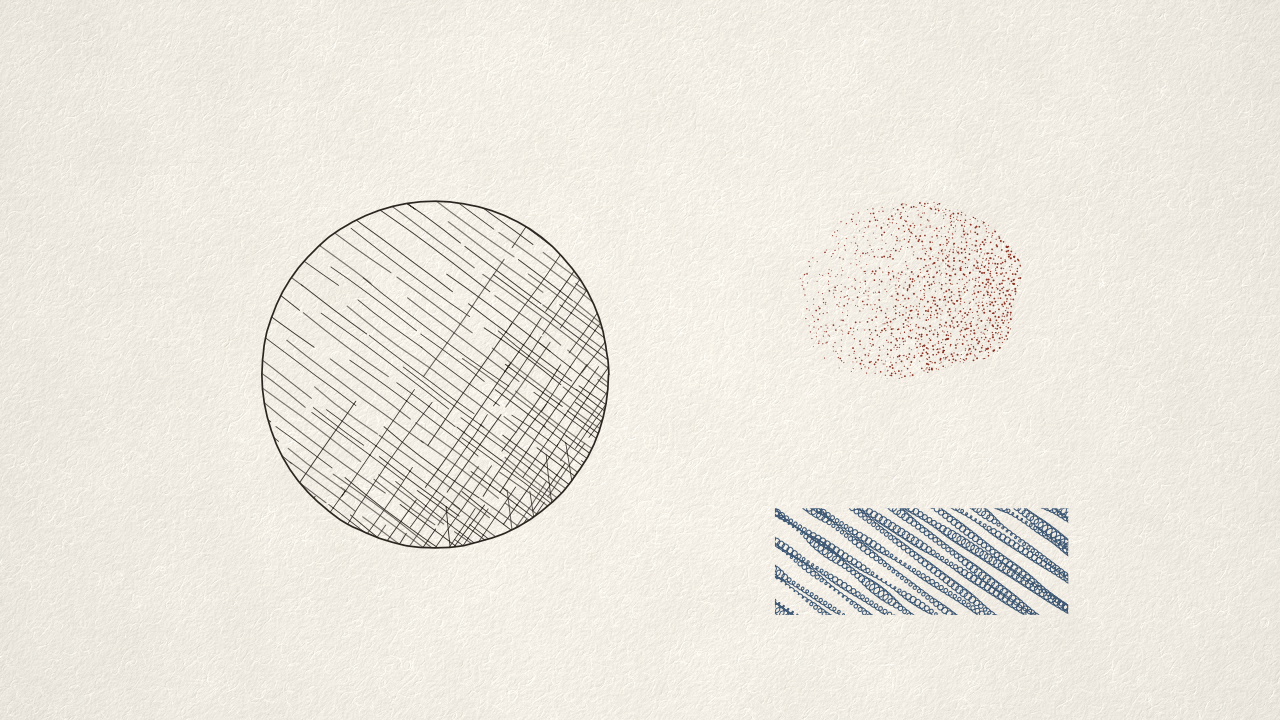
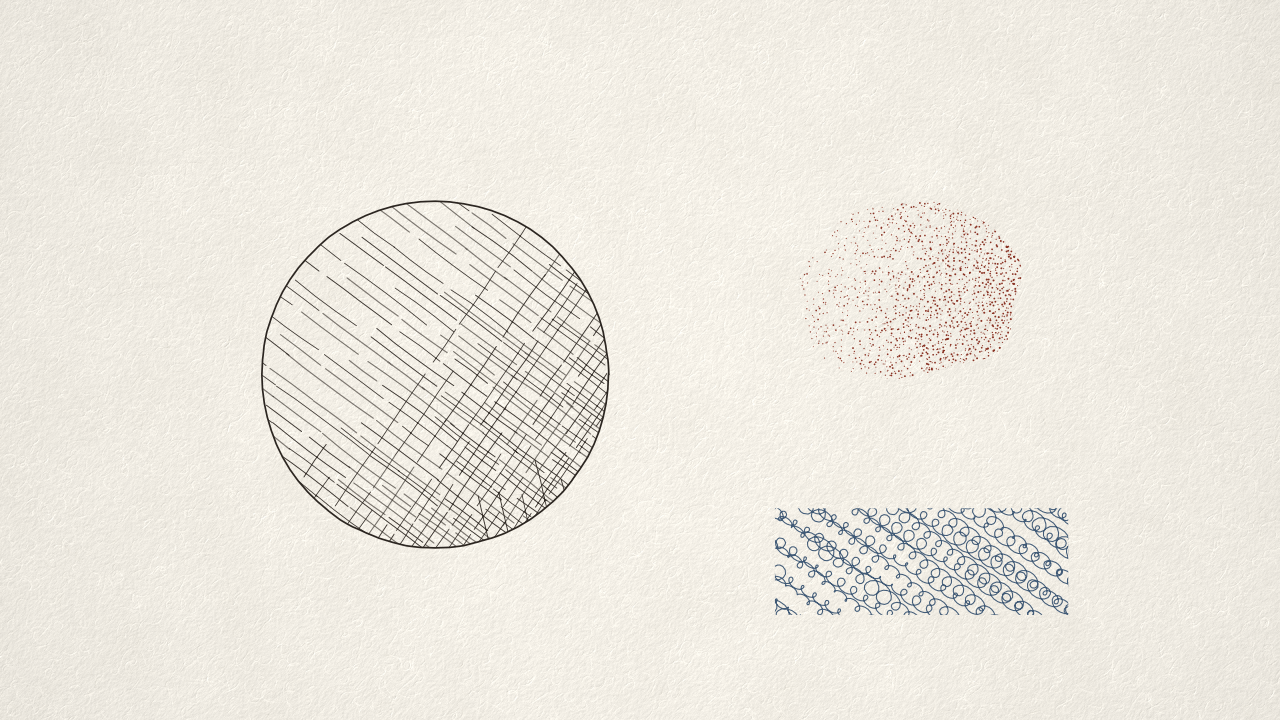
video: organic cold-press grain, looser scribble loops, shorter hatch strokes
Claude-Session: https://claude.ai/code/session_01YBqayZhtLQZUoDivv8TjYD

Changed region(s): [[0.2188, 0.275, 0.4688, 0.7639], [0.5938, 0.7028, 0.8438, 0.8556], [0.2188, 0.3972, 0.25, 0.4278]]

diff --git a/crates/anikit-video/src/components/illus_fill.rs b/crates/anikit-video/src/components/illus_fill.rs
@@ -299,9 +299,9 @@ impl Hatch {
                 let mut pts = Vec::new();
                 let mut v = -rad;
                 let mut dir = 1.0f32;
-                let loop_r = s * 0.9;
-                let nloops = (2.0 * rad / (loop_r * 0.9)).ceil().max(4.0) as usize;
-                let per = 10usize;
+                let loop_r = s * 1.5;
+                let nloops = (2.0 * rad / (loop_r * 1.5)).ceil().max(4.0) as usize;
+                let per = 14usize;
                 while v < rad && pts.len() < 60000 {
                     let tc = self.tone_at(cx + vx * v, cy + vy * v, bb).max(0.08);
                     let sv = s / tc.powf(0.8);
@@ -337,7 +337,7 @@ impl Hatch {
                         // Break each line into hand strokes of uneven length.
                         let mut u = -rad;
                         while u < rad {
-                            let seg = rng.range(0.25, 0.7) * rad.max(60.0);
+                            let seg = rng.range(0.15, 0.45) * rad.max(60.0);
                             let u1 = (u + seg).min(rad);
                             let (mx, my) = (cx + ux * (u + u1) * 0.5 + vx * v, cy + uy * (u + u1) * 0.5 + vy * v);
                             let t = self.tone_at(mx, my, bb);
@@ -467,10 +467,10 @@ pub fn paper_field(kind: &str, color: Rgba, tooth: f32, fibers: f32, vignette: f
                 }
                 "watercolor" => {
                     // Cold-press: rounded bumps of ~8–20 px plus a finer grain.
-                    let b = 1.0 - vnoise2(fx / 9.0, fy / 9.0, sd ^ 7).abs();
-                    let b2 = 1.0 - vnoise2(fx / 4.0 + 3.1, fy / 4.0, sd ^ 8).abs();
-                    let b3 = vnoise2(fx / 22.0, fy / 22.0, sd ^ 9);
-                    b * b * 1.2 + b2 * 0.35 + b3 * 0.4 + 0.12 * fine
+                    let b = fbm2(fx / 11.0, fy / 11.0, 2, sd ^ 7) * 0.5 + 0.5;
+                    let b2 = fbm2(fx / 4.5 + 3.1, fy / 4.5, 2, sd ^ 8);
+                    let b3 = fbm2(fx / 28.0, fy / 28.0, 2, sd ^ 9);
+                    b * b * 1.6 + b2 * 0.3 + b3 * 0.45 + 0.1 * fine
                 }
                 "newsprint" => 0.35 * vnoise2(fx / 1.6, fy / 1.6, sd ^ 10) + 0.25 * fine + 0.2 * vnoise2(fx / 5.0, fy / 5.0, sd ^ 11),
                 "kraft" => 0.4 * vnoise2(fx / 2.2, fy / 2.2, sd ^ 12) + 0.3 * vnoise2(fx / 7.0, fy / 3.0, sd ^ 13) + 0.2 * fine,
